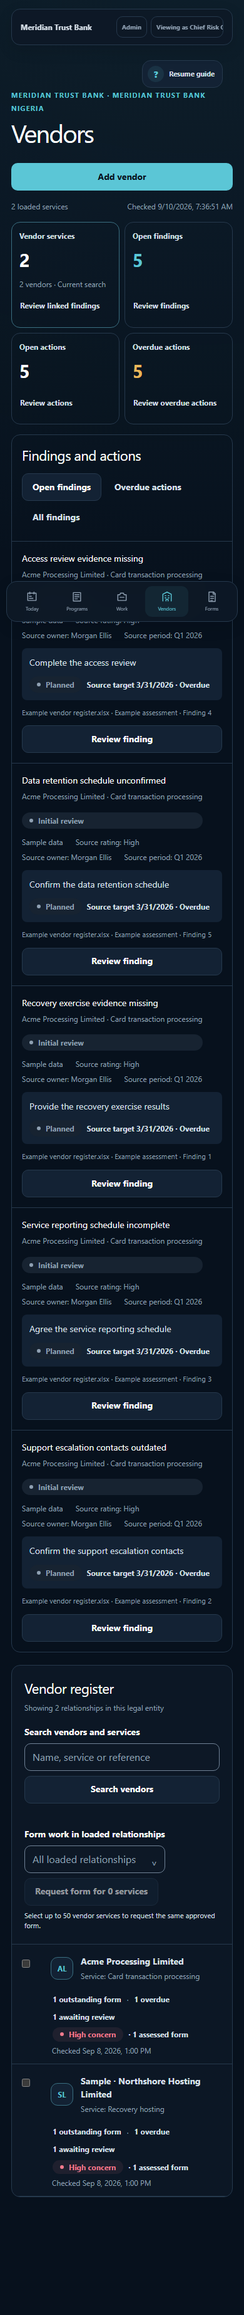
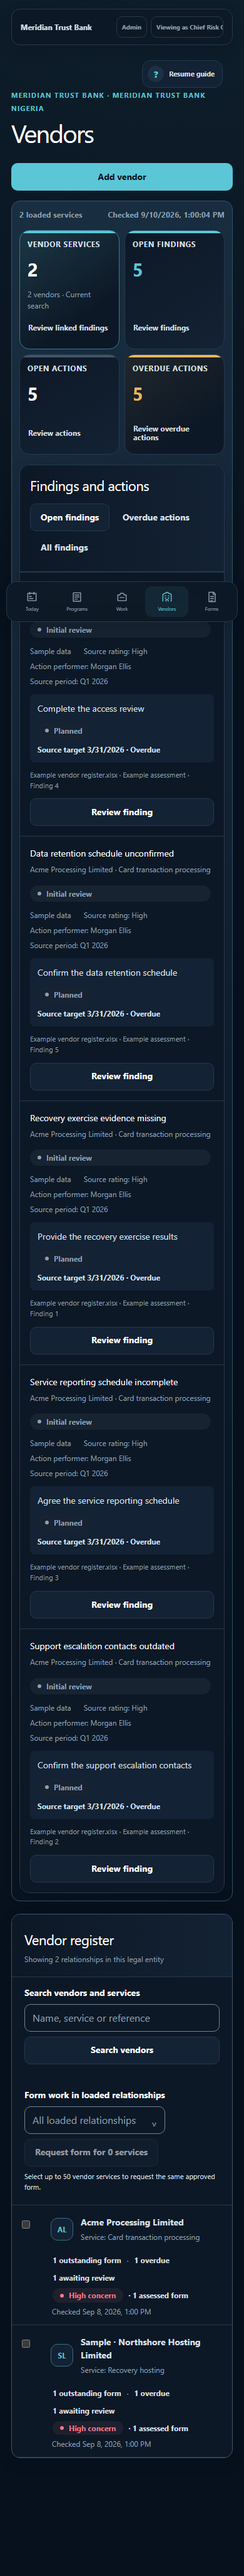
Strengthen vendor dashboard hierarchy

diff --git a/web/src/components/vendor-portfolio.css b/web/src/components/vendor-portfolio.css
@@ -1,12 +1,13 @@
-.vendor-portfolio { display:grid; gap:var(--cs-space-group); margin-block-start:var(--cs-space-group); }
-.vendor-findings { border:1px solid var(--cs-border-default); border-radius:var(--cs-surface-radius); background:var(--cs-bg-surface); overflow:hidden; scroll-margin-top:24px; }
-.vendor-findings > header { display:flex; align-items:center; justify-content:space-between; flex-wrap:wrap; gap:12px; padding:20px; }
+.vendor-portfolio { display:grid; gap:var(--cs-space-group); margin-block-start:var(--cs-space-group); padding:clamp(16px,2vw,28px); border:1px solid color-mix(in srgb,var(--cyan) 20%,var(--cs-border-default)); border-radius:calc(var(--cs-surface-radius) + 6px); background:linear-gradient(145deg,color-mix(in srgb,var(--cyan) 8%,var(--cs-bg-surface-2)),var(--cs-bg-surface-2) 42%,var(--cs-bg-canvas)); box-shadow:var(--cs-shadow-raised); }
+.vendor-findings { border:1px solid var(--cs-border-default); border-radius:calc(var(--cs-surface-radius) + 2px); background:var(--cs-bg-surface-1); box-shadow:var(--cs-primitive-shadow-1); overflow:hidden; scroll-margin-top:24px; }
+.vendor-findings > header { display:flex; align-items:center; justify-content:space-between; flex-wrap:wrap; gap:12px; padding:20px; border-block-end:1px solid var(--cs-border-default); background:linear-gradient(90deg,var(--cs-bg-surface-1),var(--cs-bg-surface-2)); }
 .vendor-findings h2 { font-size:var(--cs-primitive-font-size-22); margin:0; }
 .vendor-findings-filters { display:flex; flex-wrap:wrap; gap:4px; }
 .vendor-findings > ul,.vendor-finding-actions { padding:0; margin:0; list-style:none; }
 .vendor-findings > p,.vendor-findings > .cs-notice { margin:16px 20px; }
 .vendor-findings > .cs-button { margin:16px 20px; }
-.vendor-finding { padding:20px; border-block-start:1px solid var(--cs-border-default); }
+.vendor-finding { padding:20px; border-block-start:1px solid var(--cs-border-default); background:var(--cs-bg-surface-1); transition:background-color 180ms ease; }
+.vendor-finding:hover { background:var(--cs-bg-surface-hover); }
 .vendor-finding-heading { display:flex; align-items:flex-start; justify-content:space-between; gap:16px; }
 .vendor-finding h3 { margin:0; font-size:var(--cs-font-size-body); overflow-wrap:anywhere; }
 .vendor-finding-heading p { margin:6px 0 0; color:var(--cs-text-muted); font-size:var(--cs-font-size-caption); }
@@ -19,12 +20,16 @@
 .vendor-finding footer small { color:var(--cs-text-muted); overflow-wrap:anywhere; }
 .vendor-portfolio--detail { margin-block:20px; }
 @media(max-width:760px) { .vendor-finding-heading { display:grid; } .vendor-finding-actions > li { grid-template-columns:minmax(0,1fr); } .vendor-finding-actions > li > div { justify-content:flex-start; } .vendor-finding,.vendor-findings > header { padding:16px; } .vendor-finding footer > .cs-button { width:100%; } }
-.vendor-portfolio-scope { display:flex; flex-wrap:wrap; justify-content:space-between; gap:var(--cs-primitive-space-2); color:var(--cs-text-muted); font-size:var(--cs-font-size-caption); }
-.vendor-metrics { display:grid; grid-template-columns:repeat(4,minmax(0,1fr)); gap:var(--cs-space-group); }
-.vendor-metric { display:flex; flex-direction:column; align-items:flex-start; min-inline-size:0; gap:var(--cs-primitive-space-1); padding:var(--cs-surface-padding); border:var(--cs-surface-border-width) solid var(--cs-border-default); border-radius:var(--cs-surface-radius); background:var(--cs-bg-surface); color:var(--cs-text-muted); font-size:var(--cs-font-size-caption); }
-.vendor-metric--portfolio { background:color-mix(in srgb,var(--cyan) 7%,var(--cs-bg-surface)); border-color:color-mix(in srgb,var(--cyan) 38%,var(--cs-border-default)); }
-.vendor-metric-label { font-weight:650; color:var(--cs-text-primary); }
-.vendor-metric-value { color:var(--cs-text-strong); font-size:clamp(1.65rem,2.6vw,2.75rem); line-height:1.2; letter-spacing:-.035em; font-variant-numeric:tabular-nums; padding-block:var(--cs-primitive-space-2); }
+.vendor-portfolio-scope { display:flex; flex-wrap:wrap; justify-content:space-between; gap:var(--cs-primitive-space-2); color:var(--cs-text-muted); font-size:var(--cs-font-size-caption); font-weight:650; letter-spacing:.02em; }
+.vendor-metrics { display:grid; grid-template-columns:1.16fr repeat(3,minmax(0,1fr)); gap:var(--cs-space-group); }
+.vendor-metric { position:relative; display:flex; flex-direction:column; align-items:flex-start; min-inline-size:0; min-block-size:190px; gap:var(--cs-primitive-space-1); padding:clamp(18px,2vw,24px); border:var(--cs-surface-border-width) solid var(--cs-border-default); border-radius:calc(var(--cs-surface-radius) + 2px); background:linear-gradient(150deg,var(--cs-bg-surface-1),var(--cs-bg-surface-2)); box-shadow:var(--cs-primitive-shadow-1); color:var(--cs-text-muted); font-size:var(--cs-font-size-caption); overflow:hidden; }
+.vendor-metric::before { content:""; position:absolute; inset:0 0 auto; block-size:4px; background:var(--cs-border-strong); }
+.vendor-metric--portfolio { background:linear-gradient(145deg,color-mix(in srgb,var(--cyan) 18%,var(--cs-bg-surface-1)),var(--cs-bg-surface-1) 70%); border-color:color-mix(in srgb,var(--cyan) 46%,var(--cs-border-default)); }
+.vendor-metric--portfolio::before,.vendor-metric--accent::before { background:var(--cyan); }
+.vendor-metric--warning { background:linear-gradient(145deg,color-mix(in srgb,var(--amber) 9%,var(--cs-bg-surface-1)),var(--cs-bg-surface-1) 72%); }
+.vendor-metric--warning::before { background:var(--amber); }
+.vendor-metric-label { font-weight:750; color:var(--cs-text-primary); letter-spacing:.055em; text-transform:uppercase; }
+.vendor-metric-value { color:var(--cs-text-strong); font-size:clamp(2rem,3vw,3.35rem); line-height:1.05; letter-spacing:-.045em; font-variant-numeric:tabular-nums; padding-block:var(--cs-primitive-space-3); }
 .vendor-metric--warning .vendor-metric-value { color:var(--amber); }
 .vendor-metric--accent .vendor-metric-value { color:var(--cyan); }
 .vendor-metric > .cs-button { margin-block-start:auto; padding-inline:0; text-align:start; justify-content:flex-start; min-block-size:44px; white-space:normal; }
@@ -45,5 +50,5 @@
 .vendor-review-total { display:flex; flex-wrap:wrap; align-items:baseline; gap:var(--cs-primitive-space-3); margin-block-end:var(--cs-primitive-space-3); color:var(--cs-text-muted); font-size:var(--cs-font-size-caption); }
 .vendor-review-total > strong { font-size:var(--cs-primitive-font-size-28); color:var(--cs-text-strong); font-variant-numeric:tabular-nums; }
 @media (max-width:1100px) { .vendor-metrics { grid-template-columns:repeat(2,minmax(0,1fr)); } }
-@media (max-width:600px) { .vendor-portfolio-analysis { grid-template-columns:minmax(0,1fr); } .vendor-metrics { gap:var(--cs-primitive-space-2); } .vendor-metric { padding:var(--cs-primitive-space-3); } .vendor-metric > .cs-button { font-size:var(--cs-font-size-caption); } .vendor-metric-value { font-size:1.8rem; } }
+@media (max-width:600px) { .vendor-portfolio { padding:var(--cs-primitive-space-3); border-radius:var(--cs-surface-radius); box-shadow:none; } .vendor-portfolio-analysis { grid-template-columns:minmax(0,1fr); } .vendor-metrics { gap:var(--cs-primitive-space-2); } .vendor-metric { min-block-size:160px; padding:var(--cs-primitive-space-3); box-shadow:none; } .vendor-metric > .cs-button { font-size:var(--cs-font-size-caption); } .vendor-metric-value { font-size:1.8rem; } }
 @media (max-width:350px) { .vendor-metrics { grid-template-columns:minmax(0,1fr); } }

diff --git a/web/src/vendors.css b/web/src/vendors.css
@@ -11,6 +11,8 @@
 .vendor-layout { display:grid; grid-template-columns:minmax(0,1fr); gap:18px; margin-top:24px; align-items:start; }
 .vendor-register,.vendor-focus { border:1px solid var(--border); border-radius:18px; background:color-mix(in srgb,var(--surface) 92%,transparent); overflow:hidden; }
 .vendor-register { position:static; }
+.vendors-workspace:not(.has-selection):not(.is-form) .vendor-register { border-color:var(--cs-border-strong); background:var(--cs-bg-surface-1); box-shadow:var(--cs-primitive-shadow-1); }
+.vendors-workspace:not(.has-selection):not(.is-form) .vendor-register-header { padding-block:24px 18px; border-block-end:1px solid var(--cs-border-default); background:linear-gradient(90deg,var(--cs-bg-surface-1),var(--cs-bg-surface-2)); }
 .vendors-workspace.has-selection .vendor-register,.vendors-workspace.is-form .vendor-register { display:none; }
 .vendors-workspace:not(.has-selection):not(.is-form) .vendor-focus { display:none; }
 .vendor-register-header { padding:20px 20px 4px; }

diff --git a/docs/design/2026-09-10-vendor-portfolio.md b/docs/design/2026-09-10-vendor-portfolio.md
@@ -12,7 +12,7 @@ The user's correction replaces the original form-count, criticality and response
 
 Source ratings, source owners, source periods and source target dates remain explicitly attributed. They do not become new present-day ratings or verified completion. The same findings/actions appear first in selected-vendor Overview, before form collection and review. Superseded, revoked and cancelled requests retain their terminal labels, without current missing-answer prompts; collecting/setup assessments do not imply an assigned review.
 
-Desktop uses four metric cards, a full-width findings/actions list and register. Tablet uses two metric columns. Mobile stacks finding facts/actions and service rows; detail replaces the portfolio at every width, with an explicit Back to vendor register action. No new palette, chart dependency or animation. Existing typography, semantic tokens and shared controls are retained.
+Desktop uses a layered portfolio frame, four elevated metric cards, a full-width findings/actions workbench and a separately elevated register. The portfolio summary uses restrained cyan and amber status accents, while the register retains a neutral operating surface. Tablet uses two metric columns. Mobile removes elevation, preserves the grouped portfolio frame and stacks finding facts/actions and service rows; detail replaces the portfolio at every width, with an explicit Back to vendor register action. No new palette, chart dependency or animation. Existing typography, semantic tokens and shared controls are retained.
 
 ## Demo scope
 
